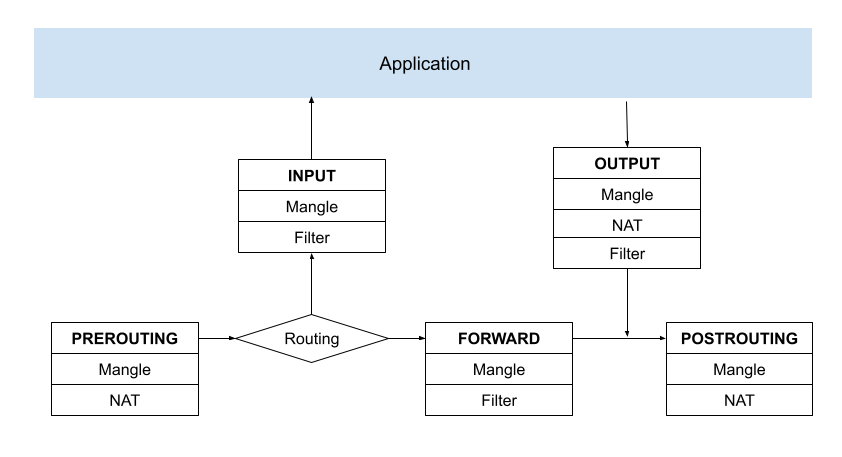
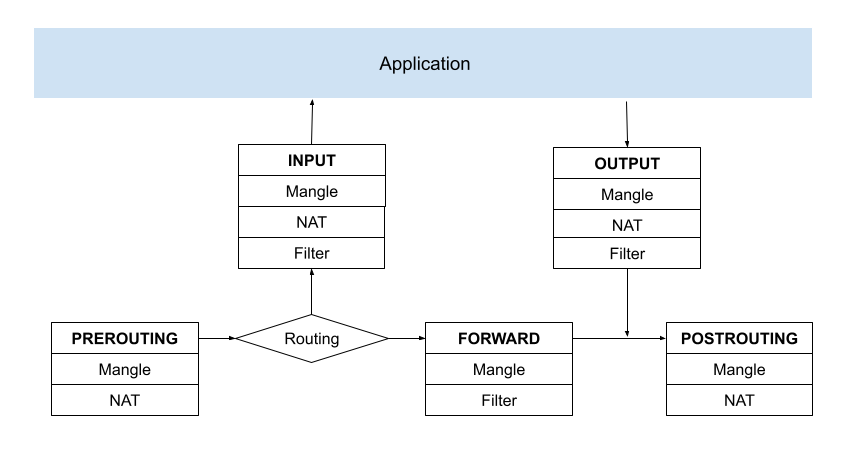
修正 iptables 配图

Changed region(s): [[0.3397, 0.337, 0.4014, 0.5821], [0.4323, 0.4595, 0.4632, 0.5208]]

diff --git a/Observability/logging.md b/Observability/logging.md
@@ -50,6 +50,10 @@ Elasticsearch 在日志场景中的优势在于全文检索能力，快速从海
 
 ## ClickHouse
 
+:::tip ClickHouse
+ClickHouse® is an open-source **column-oriented** database management system that allows generating analytical data reports in **real-time**.
+:::
+
 一个流行的观点认为：如果你想要查询变得更快，最简单且有效的方法就是减少数据扫描范围和数据传输的大小。而列式存储和数据压缩就可以帮助我们实现上述两点。
 
 - 压缩的本质是按照一定步长对数据进行匹配扫描，当发现重复部分的时候就进行编码转换。数据中的重复项越多，则压缩率越高。 同一列字段的数据，因为拥有相同的数据类型和现实语义，重复项可能性自然更高。
